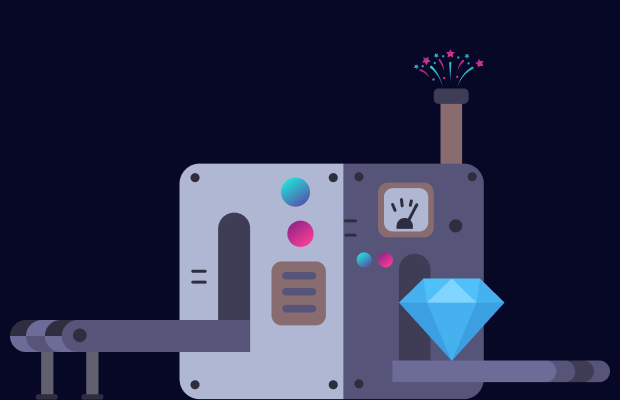
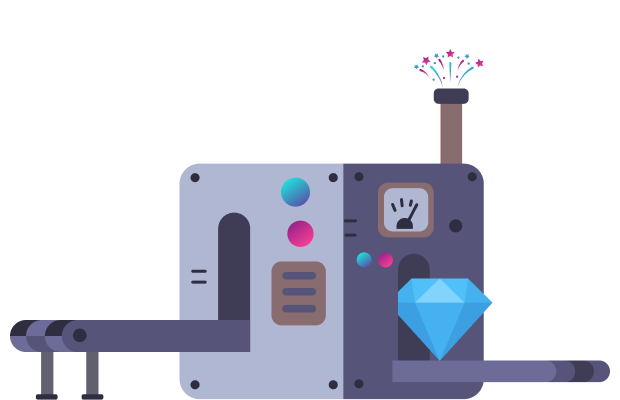
anime

diff --git a/scripts/anime.js b/scripts/anime.js
@@ -42,7 +42,12 @@ $(document).ready(function(){
         "img/a8_3.png",
         "img/a9.png",
         "img/a10.png",
-        "img/a11.png"
+        "img/a11.png",
+        "img/a12.png",
+        "img/a13.png",
+        "img/a13.png",
+        "img/a13.png",
+
 
     ]
     counter = 0;

diff --git a/style/general.css b/style/general.css
@@ -495,6 +495,7 @@ body {
   background-repeat: no-repeat;
   height: 540px;
   background-position: center center;
+  margin-top: 40px;
 }
 
 .second_block_wrapper {
